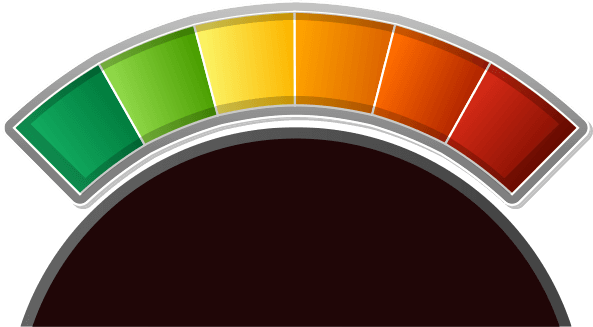
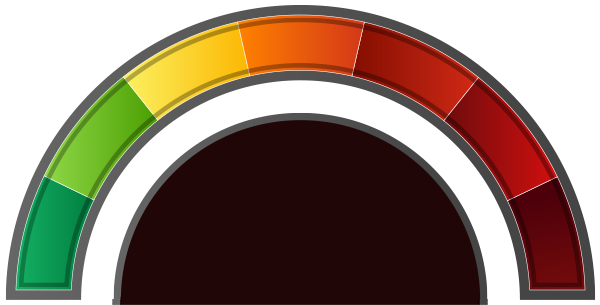
wip

diff --git a/src/components/Layout.jsx b/src/components/Layout.jsx
@@ -8,17 +8,17 @@ export default function Layout() {
     <>
       <Header />
       <Outlet />
-      <div className="fixed bottom-16 z-20 flex bg-lime-500 items-center justify-center text-sm text-white font-semibold left-[-125px] hover:left-0 duration-500 ease-out cursor-pointer">
+      <div className="fixed bottom-20 z-20 flex bg-lime-500 items-center justify-center text-sm text-white font-semibold left-[-125px] hover:left-0 duration-500 ease-out cursor-pointer">
         <Link to={"mailto:pmt1@gccpl.com"} className="px-3">
-          Quick Nnquiry
+          Quick Enquiry
         </Link>
-        <img src={quickenquiry} alt="quickenquiry" className="h-10 w-10" />
+        <img src={quickenquiry} alt="quickenquiry" className="h-14 w-14" />
       </div>
-      <div className="fixed bottom-4 z-20 flex bg-orange-500 items-center justify-center text-sm text-white font-semibold left-[-293px] hover:left-0 duration-500 ease-out cursor-pointer">
+      <div className="fixed bottom-4 z-20 flex bg-orange-500 items-center justify-center text-sm text-white font-semibold left-[-295px] hover:left-0 duration-500 ease-out cursor-pointer">
         <Link to={"/find-doctors"} className="px-3">
           Locate Nearby Doctor For Vaccination
         </Link>
-        <img src={locatedoctor} alt="locatedoctor" className="h-10 w-10" />
+        <img src={locatedoctor} alt="locatedoctor" className="h-14 w-14" />
       </div>
       <Link to="/references" className="referenceDiv">
         <div>References</div>

diff --git a/src/pages/risk/Riskscore.jsx b/src/pages/risk/Riskscore.jsx
@@ -20,19 +20,19 @@ export default function Riskscore() {
   };
   useEffect(() => {
     if (score === 0) {
-      setDeg(-60);
+      setDeg(-78);
     } else if (score === 1) {
-      setDeg(0);
+      setDeg(-53);
     } else if (score === 2) {
-      setDeg(12);
+      setDeg(-26);
     } else if (score === 3) {
-      setDeg(24);
+      setDeg(0);
     } else if (score === 4) {
-      setDeg(36);
+      setDeg(26);
     } else if (score === 5) {
-      setDeg(48);
+      setDeg(53);
     } else {
-      setDeg(60);
+      setDeg(78);
     }
   }, [score]);
   return (
@@ -95,7 +95,7 @@ export default function Riskscore() {
                 <div className="arrow" style={{ rotate: `${deg}deg` }}></div>
                 <div className="arrowCircle"></div>
                 <img src={METER} width={"100%"} height={"100%"} alt="meter" />
-                <div className="absolute bottom-3 text-white font-bold text-3xl text-center w-full">
+                <div className="absolute bottom-14 text-white font-bold text-3xl text-center w-full z-10">
                   Risk Score
                 </div>
               </div>

diff --git a/src/index.css b/src/index.css
@@ -192,7 +192,7 @@
   left: 0;
   right: 0;
   margin: 0 auto;
-  top: 0;
+  top: 43px;
   transform-origin: bottom center;
   transition: all 0.3s cubic-bezier(0.175, 0.885, 0.32, 1.275);
 }
@@ -204,7 +204,7 @@
   left: 0;
   right: 0;
   margin: 0 auto;
-  top: 220px;
+  top: 269px;
 }
 .selected {
   @apply relative;
